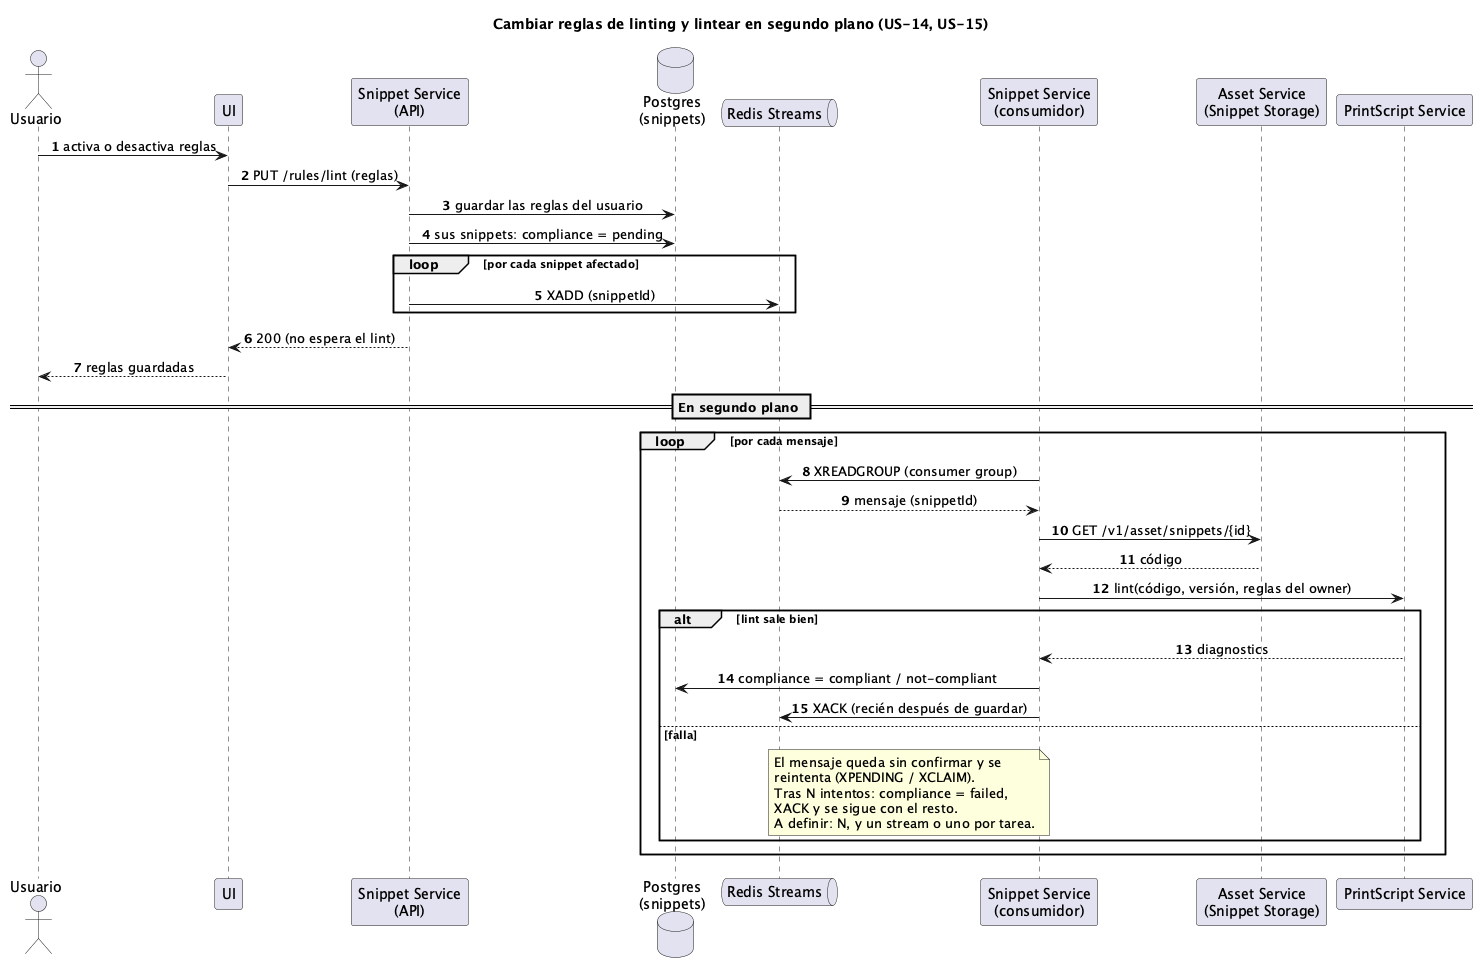
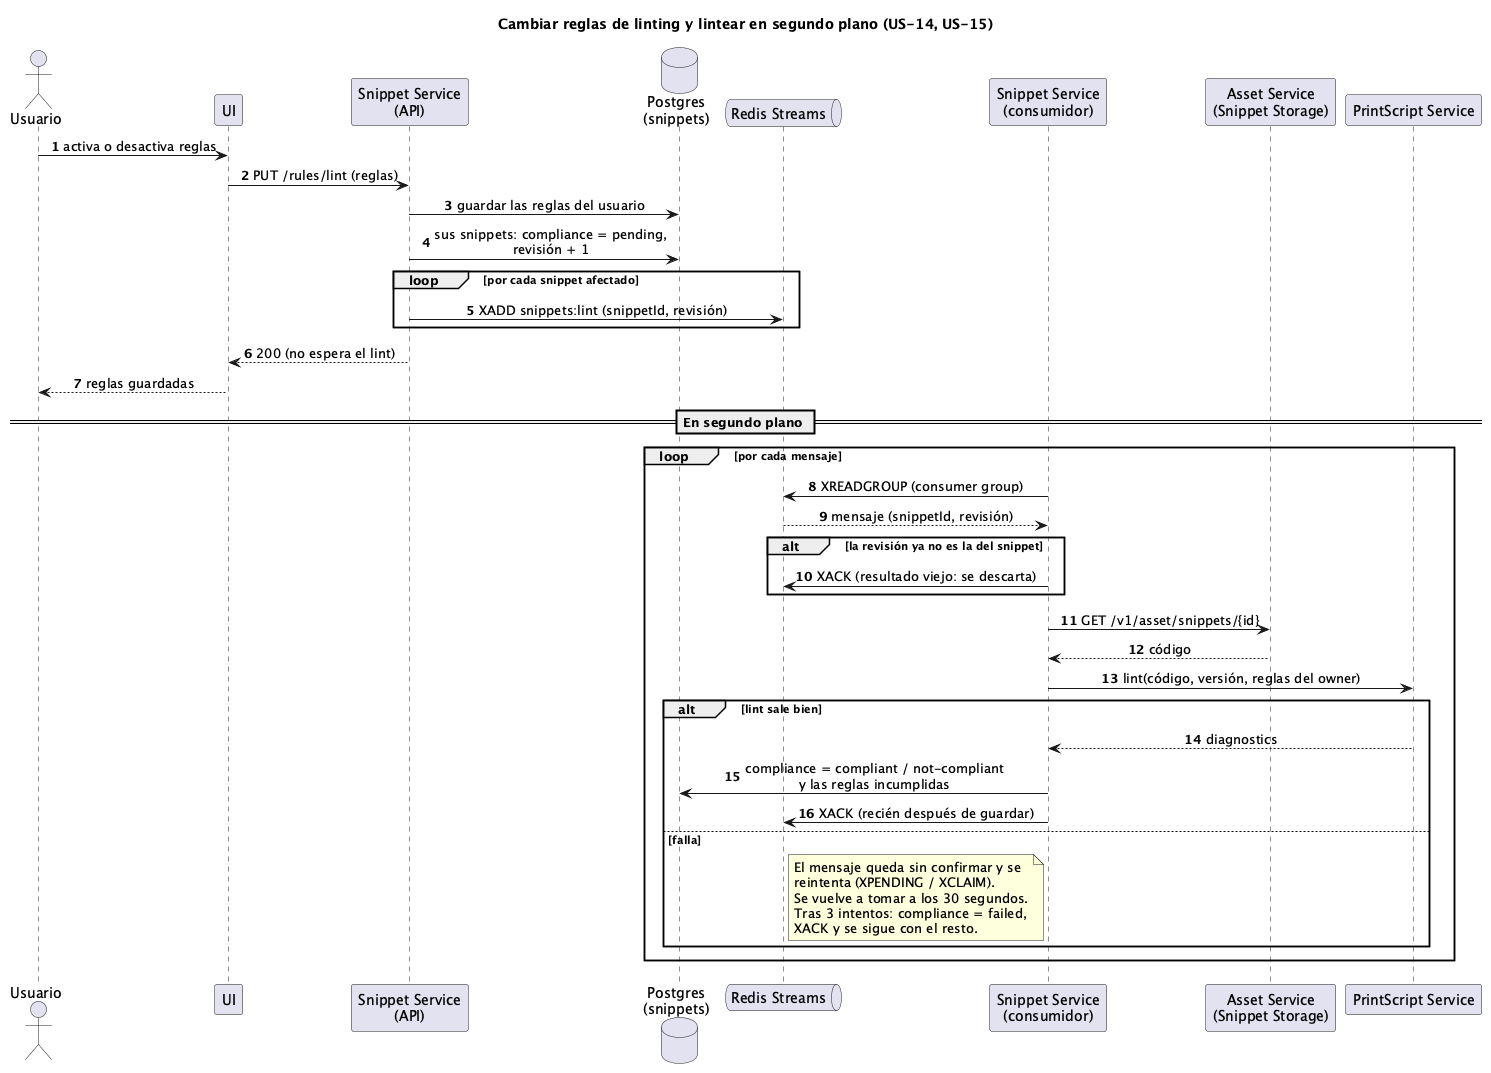
docs: registra los streams y los reintentos de Redis y las reglas incumplidas
Decisiones de #49 para #23: un stream por tarea, 3 intentos con 30 segundos de espera, qué pasa si falla el formateo, y la revisión del snippet para descartar resultados viejos. El detalle de un snippet devuelve sus reglas de lint incumplidas (US-6).

Refs: #49, #23

diff --git a/README.md b/README.md
@@ -220,7 +220,7 @@ Los flujos más importantes, en PlantUML dentro de [`docs/diagramas/flujos/`](do
 | [Actualizar snippet](docs/diagramas/flujos/secuencia-actualizar-snippet.puml) | US-2, US-4, US-16 | ✅ Implementado (falta el lint, #23) | Solo el owner edita; misma validación que crear; si falla guardar el código, los metadatos no cambian; los tests corren después y no revierten el cambio |
 | [Compartir snippet](docs/diagramas/flujos/secuencia-compartir-snippet.puml) | US-7 | ✅ Implementado (falta la búsqueda de usuarios, módulo User) | Solo el owner comparte; el invitado solo lee; 400 si se lo comparte a sí mismo; compartir dos veces no duplica el permiso |
 | [Borrar snippet](docs/diagramas/flujos/secuencia-borrar-snippet.puml) | — | ✅ Implementado | Solo el owner borra; la fila y el archivo en una transacción; después los permisos, y si eso falla el snippet queda borrado igual |
-| [Linting automático](docs/diagramas/flujos/secuencia-linting-automatico.puml) | US-14, US-15 | ⏳ Falta (#18, #23) | Snippet Service se manda trabajo a sí mismo por Redis Streams; confirma el mensaje recién después de guardar y reintenta si falla. El formateo automático (US-12) sigue el mismo flujo |
+| [Linting automático](docs/diagramas/flujos/secuencia-linting-automatico.puml) | US-14, US-15 | ⏳ Falta (#23) | Snippet Service se manda trabajo a sí mismo por Redis Streams (un stream por tarea); confirma el mensaje recién después de guardar y reintenta hasta 3 veces. El formateo automático (US-12) sigue el mismo flujo |
 
 ![Crear snippet](docs/diagramas/flujos/secuencia-crear-snippet.png)
 
@@ -363,7 +363,7 @@ CORS es la regla del navegador que decide si una página puede llamar a una API 
 |---|---|---|
 | `listSnippetDescriptors(page, pageSize, name?)` | `GET /snippets?page=&page_size=&name=` | `{ page, page_size, count, snippets: Snippet[] }`. `page` empieza en 0 y `page_size` va de 1 a 100. `name` filtra por nombre (contiene, sin distinguir mayúsculas). Ordenado por nombre. `relation=owner\|shared\|all` elige propios, compartidos o ambos; la UI no lo manda, así que por defecto son ambos |
 | `createSnippet(snippet)` | `POST /snippets` | `Snippet`. **400** con `{ diagnostics: Diagnostic[] }` si el código no es válido. **400** si el código está vacío o tiene solo espacios (el Snippet Storage no acepta archivos vacíos) |
-| `getSnippetById(id)` | `GET /snippets/{id}` | `Snippet`. 404 si no existe, 403 si no tiene acceso |
+| `getSnippetById(id)` | `GET /snippets/{id}` | `Snippet`, con las reglas de lint que incumple (`lintViolations`, US-6). 404 si no existe, 403 si no tiene acceso |
 | `updateSnippetById(id, {content})` | `PUT /snippets/{id}` con `{ content, name?, description?, language?, version? }` | `Snippet`. `content` es obligatorio; los metadatos son opcionales y el que no viene queda como estaba (la UI de la cátedra manda solo `content`, pero la US-2 permite cambiar todos). Si cambian el lenguaje o la versión, se valida con los nuevos. Misma validación y errores que crear: si es inválido, no se cambia nada. El snippet vuelve a `pending`. 404 si no existe, 403 si no es el owner |
 | `deleteSnippet(id)` | `DELETE /snippets/{id}` | 204. Solo el owner: 403 si no lo es, 404 si no existe. Borra la fila, el archivo del Snippet Storage y los permisos del snippet en Permission Service. Si borrar los permisos falla, el snippet queda borrado igual |
 | `shareSnippet(snippetId, userId)` | `POST /permissions/{snippetId}/share` y después `GET /snippets/{snippetId}` | El `Snippet` |
@@ -388,7 +388,7 @@ Todos los pedidos llevan el token de Auth0 (`Authorization: Bearer …`).
 ### Formatos
 
 ```
-Snippet  = { id, name, description, language, version, extension, content, compliance, author }
+Snippet  = { id, name, description, language, version, extension, content, compliance, author, lintViolations: Diagnostic[] }
 Rule     = { id, name, isActive, value }   // id y name: el nombre de la regla en la librería. value: null en las de sí o no; texto o número en las demás
 TestCase = { id, name, input: string[], output: string[], lastResult: "success" | "fail" | null }
 ```
@@ -401,6 +401,7 @@ TestCase = { id, name, input: string[], output: string[], lastResult: "success" 
 ### Cambios a la UI de la cátedra
 
 - **`snippetId` en los métodos de tests y de formateo** (`getTestCases`, `postTestCase`, `removeTestCase`, `testSnippet`, `formatSnippet`). La interfaz original no lo recibe, y sin él no se sabe a qué snippet pertenece un test ni con qué lenguaje y reglas formatear. La pantalla de detalle ya tiene el snippet abierto.
+- **Reglas de lint incumplidas** (US-6): `Snippet` suma `lintViolations`, y el detalle las muestra debajo del código. La UI original no tiene dónde mostrarlas.
 - **Resultado de la última corrida de cada test** (US-16): `TestCase` suma `lastResult`, y la pantalla de tests lo muestra al lado del nombre. La UI original no tiene dónde mostrarlo.
 - **Métodos sin endpoint todavía:** `ApiSnippetOperations` le pasa esos pedidos a `FakeSnippetOperations`, la implementación falsa de la cátedra. Cada vez que se termina un endpoint, su método pasa a llamar al backend. Así la UI nunca se rompe y en el código se ve qué falta.
 
@@ -450,7 +451,7 @@ Fuente de verdad sobre qué está decidido. Lo que figura como **Pendiente** no 
 | Tests de un snippet (US-8, US-16) | ✅ Definido | Decidido el 2026-11-08 (#49). Un test se corre con `Language.evaluate` (ver **Contrato del servicio de PrintScript**): pasa (`success`) si los outputs coinciden exactamente y en orden con los esperados. **Solo cuentan los `println`**: el texto de `readInput` no es un output, como dice la consigna ("en el orden de los `println`"). **Un error al ejecutar** (se acaban los inputs, un error de tipos) es `fail`: la UI solo entiende `success` o `fail`. **Al actualizar un snippet** (US-16), primero se guarda el cambio y después, en el mismo pedido, se corren todos sus tests. Como pide la US-16, el resultado no bloquea ni revierte el update: un test en `fail` no impide guardar. Si PrintScript no responde, el update ya falla antes, al validar, y no se guarda nada. **Cada test guarda el resultado de su última corrida** (`lastResult`), y la UI lo muestra: la automática al actualizar el snippet, o la de correrlo a mano tal como está guardado (decidido el 2026-11-08). Cuando esté #23, los tests podrían pasar a correr en segundo plano |
 | Framework de tests | ✅ Definido | **JUnit 5**, con los starters de test de Spring Boot (lo que genera Spring Initializr). Los tests necesitan la base levantada y usan una base aparte (`snippets_test`, `permisos_test`), porque borran los datos antes de cada test. Ver [Correr los tests](#correr-los-tests) |
 | Linter y cobertura | ⏳ Pendiente | Linter y cobertura mínima |
-| Cola de mensajes | ✅ Definido | **Redis Streams** (clase del 2026-10-13), para lintear y formatear en segundo plano (US-12, US-15). **Snippet Service se manda trabajo a sí mismo:** al crear o editar un snippet, o al cambiar una regla, marca los snippets afectados como `PENDING`, publica un mensaje por cada uno y responde enseguida. Un consumidor del mismo servicio llama a `Language.lint` o `format`, guarda el resultado y confirma el mensaje. Si falla, se reintenta; después del máximo de intentos, el snippet queda en `FAILED` y se sigue con el resto. Pros y contras, y la opción descartada, en #22. Imagen **`redis:8.2`**, con `appendonly` y un volumen, para que los mensajes pendientes sobrevivan a un reinicio de Redis. Snippet Service lo encuentra con la variable **`SPRING_DATA_REDIS_HOST`**, que Spring Boot lee sin configuración extra. Falta definir si hay un stream por tarea o uno solo, y cuántos reintentos. **Implementación propia con Spring Data Redis**, sin la librería de ayuda de la cátedra ([class-redis-streams](https://github.com/austral-ingsis/class-redis-streams)), que es opcional según el profesor. La librería confirma los mensajes al recibirlos (no permite reintentar), su `emit` no se puede llamar desde Java y es reactiva. Lo propio: productor (`XADD`), consumidor con *consumer group* que confirma (`XACK`) recién después de guardar el resultado, y reintento de los mensajes pendientes (`XPENDING` / `XCLAIM`) |
+| Cola de mensajes | ✅ Definido | **Redis Streams** (clase del 2026-10-13), para lintear y formatear en segundo plano (US-12, US-15). **Snippet Service se manda trabajo a sí mismo:** al crear o editar un snippet, o al cambiar una regla, marca los snippets afectados como `PENDING`, publica un mensaje por cada uno y responde enseguida. Un consumidor del mismo servicio llama a `Language.lint` o `format`, guarda el resultado y confirma el mensaje. Si falla, se reintenta; después del máximo de intentos, el snippet queda en `FAILED` y se sigue con el resto. Pros y contras, y la opción descartada, en #22. Imagen **`redis:8.2`**, con `appendonly` y un volumen, para que los mensajes pendientes sobrevivan a un reinicio de Redis. Snippet Service lo encuentra con la variable **`SPRING_DATA_REDIS_HOST`**, que Spring Boot lee sin configuración extra. **Un stream por tarea:** `snippets:lint` y `snippets:format`, cada uno con su *consumer group*, sus pendientes y sus reintentos; si el formateo falla mucho, no frena al lint. **Reintentos:** 3 intentos en total. Un mensaje sin confirmar se vuelve a tomar cuando pasaron 30 segundos. Al tercer fallo, en el lint el snippet queda en `FAILED`; en el formateo queda sin versión formateada (la descarga, #20, lo avisa) y su `compliance` no cambia. En los dos casos se confirma el mensaje y se sigue con el resto. Cada mensaje lleva la **revisión** del snippet: un resultado de una revisión vieja se descarta y no pisa a uno nuevo. Decidido el 2026-11-08 (#49). **Implementación propia con Spring Data Redis**, sin la librería de ayuda de la cátedra ([class-redis-streams](https://github.com/austral-ingsis/class-redis-streams)), que es opcional según el profesor. La librería confirma los mensajes al recibirlos (no permite reintentar), su `emit` no se puede llamar desde Java y es reactiva. Lo propio: productor (`XADD`), consumidor con *consumer group* que confirma (`XACK`) recién después de guardar el resultado, y reintento de los mensajes pendientes (`XPENDING` / `XCLAIM`) |
 
 ## Flujo de trabajo
 
